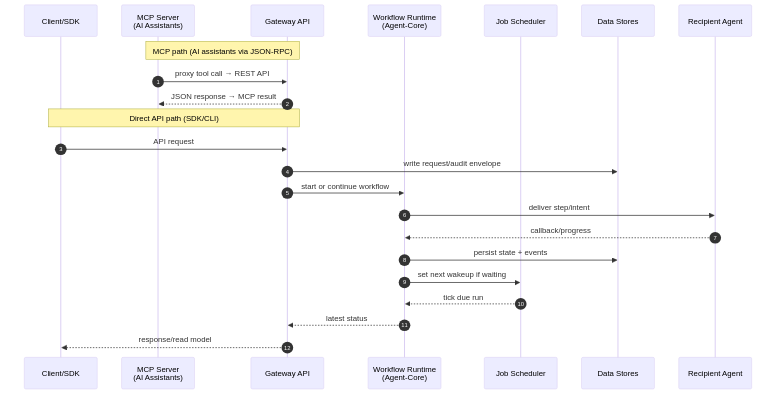
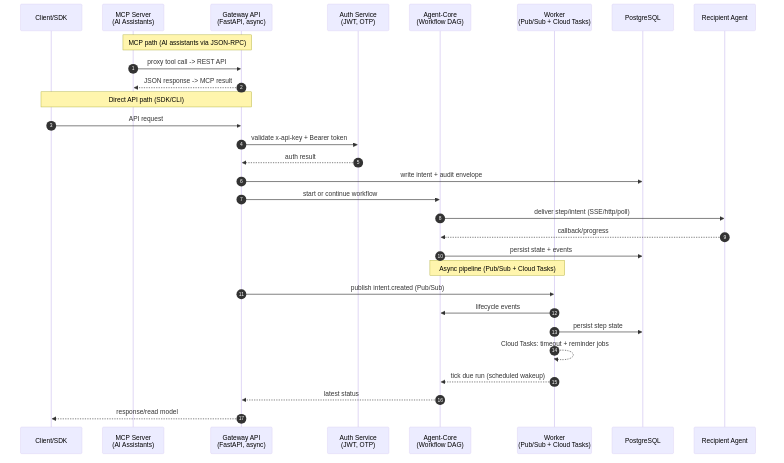
docs: fix broken examples link, correct axp-spec references, update diagrams (#63)
- README.md: fix cloud examples link to point to examples/ (not cloud/)
- enterprise-runtime-model-and-placement.md: axp-spec -> axme-spec
- public-api-families-d6-enterprise-governance.md: axp-spec -> axme-spec (5 occurrences)
- Re-rendered container runtime C4 diagram (SVG + PNG)

diff --git a/docs/public-api-families-d6-enterprise-governance.md b/docs/public-api-families-d6-enterprise-governance.md
@@ -30,8 +30,8 @@ Use this guide with:
 
 - `docs/openapi/gateway.v1.json` (current canonical public operation surface)
 - `docs/openapi/gateway.track-f-sprint1.v1.json` (historical phased snapshot)
-- `axp-spec/schemas/public_api/*.json` (canonical schema contracts; current repository path remains `axme-spec` during transition)
-- `axp-spec/docs/public-api-schema-index.md` (schema-to-operation mapping; current repository path remains `axme-spec` during transition)
+- `axme-spec/schemas/public_api/*.json` (canonical schema contracts; current repository path remains `axme-spec` during transition)
+- `axme-spec/docs/public-api-schema-index.md` (schema-to-operation mapping; current repository path remains `axme-spec` during transition)
 - `docs/public-api-auth.md`
 - `docs/supported-limits-and-error-model.md`
 - `docs/enterprise-runtime-model-and-placement.md`
@@ -126,8 +126,8 @@ Enterprise operation groups currently published on `gateway.v1.json`:
 
 Canonical schema files for these families are published in:
 
-- `axp-spec/schemas/public_api/` (current repository path remains `axme-spec` during transition)
-- `axp-spec/docs/public-api-schema-index.md` (authoritative mapping by operation; current repository path remains `axme-spec` during transition)
+- `axme-spec/schemas/public_api/` (current repository path remains `axme-spec` during transition)
+- `axme-spec/docs/public-api-schema-index.md` (authoritative mapping by operation; current repository path remains `axme-spec` during transition)
 
 Primary schema groups in this batch:
 
@@ -153,7 +153,7 @@ Schema disposition notes:
 
 - `POST /v1/usage/rollups/daily`, `GET /v1/portal/enterprise/*`, and `GET /v1/portal/personal/*` are currently OpenAPI-exposed operational surfaces.
 - `GET /v1/deliveries-operations` and `POST /v1/deliveries/reconcile` are currently OpenAPI-exposed delivery operations surfaces.
-- As of this snapshot, there are no dedicated `axp-spec/schemas/public_api/api.usage.rollups.daily.*`, `api.portal.enterprise.*`, `api.portal.personal.*`, or `api.deliveries.operations.*` files.
+- As of this snapshot, there are no dedicated `axme-spec/schemas/public_api/api.usage.rollups.daily.*`, `api.portal.enterprise.*`, `api.portal.personal.*`, or `api.deliveries.operations.*` files.
 - These surfaces require explicit disposition in parity tracking:
   - either add canonical `public_api` schema artifacts,
   - or document them as gateway-operational endpoints outside canonical `public_api` family scope.

diff --git a/README.md b/README.md
@@ -124,7 +124,7 @@ The complete runtime container view — services, databases, queues, and their c
 2. Choose your SDK: [Python](https://github.com/AxmeAI/axme-sdk-python) · [TypeScript](https://github.com/AxmeAI/axme-sdk-typescript) · [Go](https://github.com/AxmeAI/axme-sdk-go) · [Java](https://github.com/AxmeAI/axme-sdk-java) · [.NET](https://github.com/AxmeAI/axme-sdk-dotnet)
 3. Follow `docs/integration-quickstart.md` for the full onboarding path
 4. Example hubs:
-   - Cloud runnable: [axme-examples/cloud](https://github.com/AxmeAI/axme-examples/tree/main/cloud)
+   - Cloud runnable: [axme-examples/examples](https://github.com/AxmeAI/axme-examples/tree/main/examples)
    - Protocol-only: [axme-examples/protocol](https://github.com/AxmeAI/axme-examples/tree/main/protocol)
 
 ```bash

diff --git a/docs/enterprise-runtime-model-and-placement.md b/docs/enterprise-runtime-model-and-placement.md
@@ -140,4 +140,4 @@ Temporary compatibility behavior:
 - `docs/public-api-families-d6-enterprise-governance.md`
 - `docs/enterprise-scoped-credentials-migration-note.md`
 - `docs/openapi/gateway.track-f-sprint1.v1.json`
-- `axp-spec/schemas/public_api/`
+- `axme-spec/schemas/public_api/`
